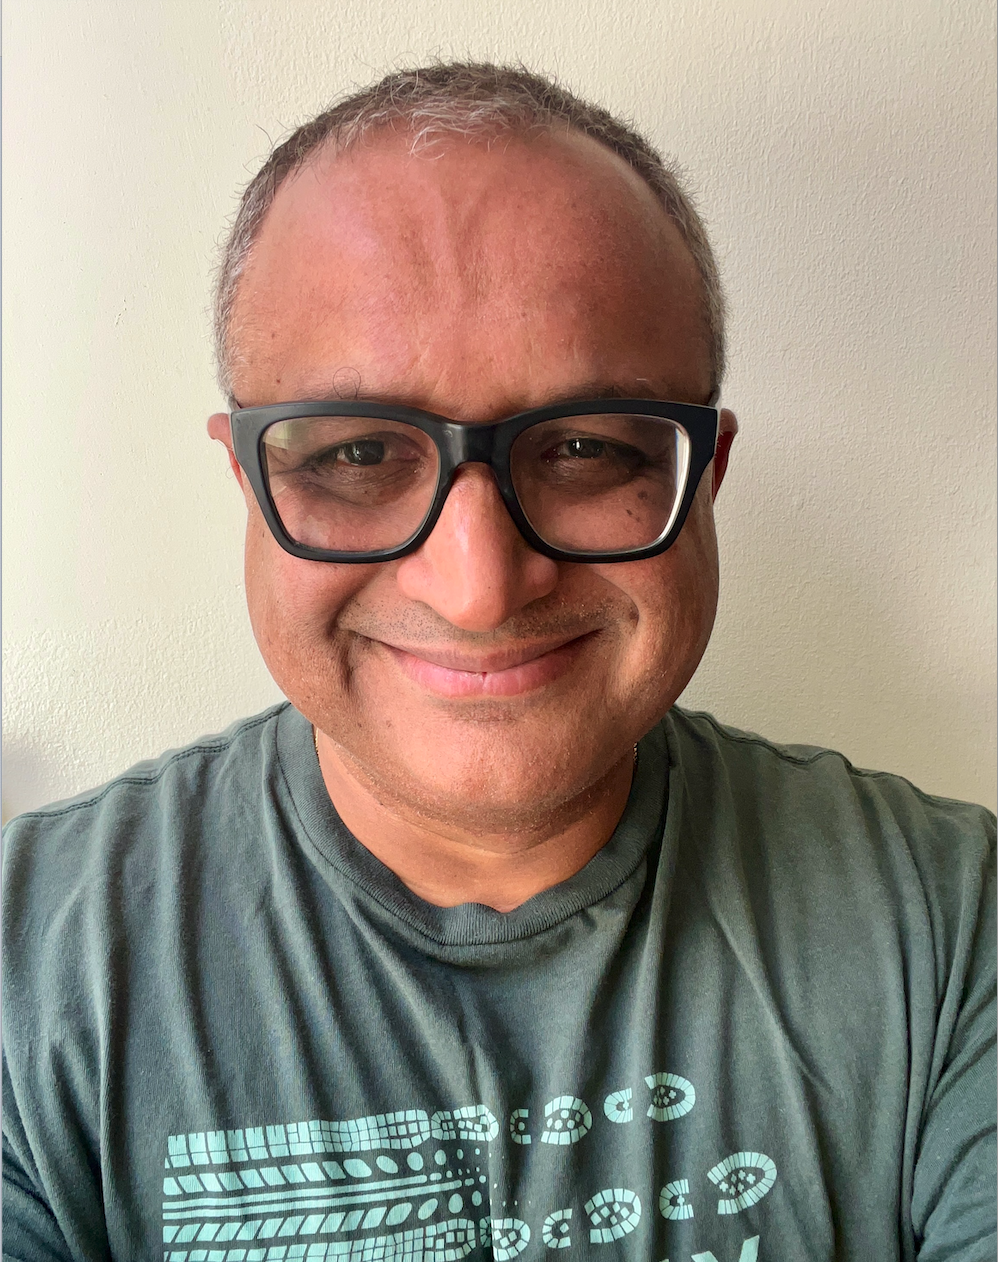
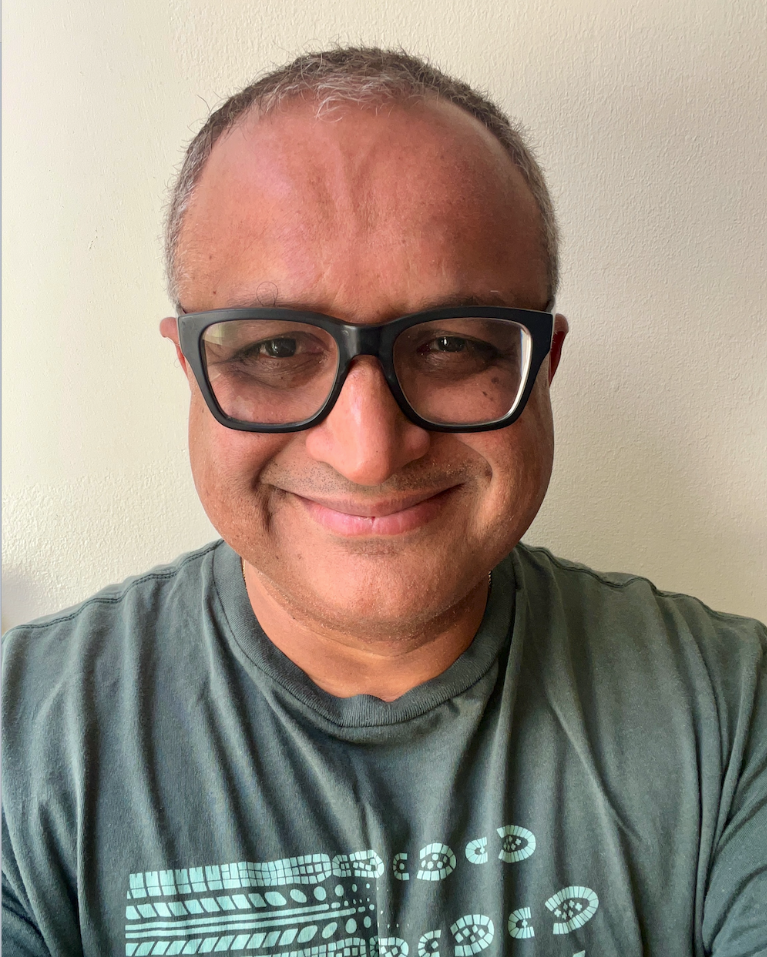
v2 final bug fixes

diff --git a/project/content/about_us_tab.py b/project/content/about_us_tab.py
@@ -60,30 +60,30 @@ My career has centered around leveraging AI and machine learning to drive innova
     
 ############################# REVERT ONCE MARK CONFIRMS #########################
     
-#     with col2:
-#         st.image('/home/ubuntu/efs-w210-capstone-ebs/00.GabbleGrid/project/files/images/10.About_Us/about_us_photo_2.png', use_column_width=True)
-#         st.markdown("""
-#             <div class='section'>
-#                 <h2>Mark Butler</h2>
-#                 <p><strong>Title:</strong> Advisor</p>
-#                 <p>
-#                 Senior leader and seasoned Engineering executive with experience in designing and building language-based computer systems. I have extensive experience with automatic classification, information extraction and retrieval, metadata creation, and language generation. I've had the good fortune to spend the last three decades working with various aspects of getting computers to process language to help humans do their work. In these three decades I've watched the fields of computational linguistics and natural language processing make incredible advances from the rule-based Brill Part of Speech Tagger to CRF based statistical SRL parsers to today's neural net language models like BERT and GPT. Because of the length of my experience, I understand the strengths of each of these technological innovations in NLP -- rule-based, statistical, and deep learning. Human language and the ability of computers to process it continue to fascinate me every day.
-
-# Specialties: text analytics; text mining; machine learning; information extraction; syntactic/semantic modeling; automated taxonomy development; metadata extraction and systems; information retrieval; open source natural language processing software and system architecture.
-#                 </p>
-#             </div>
-#         """, unsafe_allow_html=True)
-
-####################################################################################################
-    
     with col2:
-        st.image('/home/ubuntu/efs-w210-capstone-ebs/00.GabbleGrid/project/files/images/10.About_Us/about_us_photo_blank.png', use_column_width=True)
+        st.image('/home/ubuntu/efs-w210-capstone-ebs/00.GabbleGrid/project/files/images/10.About_Us/about_us_photo_2.png', use_column_width=True)
         st.markdown("""
             <div class='section'>
-                <h2>Will be updated shortly</h2>
-                <p><strong>Will be updated shortly:</strong> Advisor</p>
+                <h2>Mark Butler</h2>
+                <p><strong>Title:</strong> Advisor</p>
                 <p>
-                Will be updated shortly 
+                Senior leader and seasoned Engineering executive with experience in designing and building language-based computer systems. I have extensive experience with automatic classification, information extraction and retrieval, metadata creation, and language generation. I've had the good fortune to spend the last three decades working with various aspects of getting computers to process language to help humans do their work. In these three decades I've watched the fields of computational linguistics and natural language processing make incredible advances from the rule-based Brill Part of Speech Tagger to CRF based statistical SRL parsers to today's neural net language models like BERT and GPT. Because of the length of my experience, I understand the strengths of each of these technological innovations in NLP -- rule-based, statistical, and deep learning. Human language and the ability of computers to process it continue to fascinate me every day.
+
+Specialties: text analytics; text mining; machine learning; information extraction; syntactic/semantic modeling; automated taxonomy development; metadata extraction and systems; information retrieval; open source natural language processing software and system architecture.
                 </p>
             </div>
         """, unsafe_allow_html=True)
+
+########################## Placeholder ##########################################################################
+    
+    # with col2:
+    #     st.image('/home/ubuntu/efs-w210-capstone-ebs/00.GabbleGrid/project/files/images/10.About_Us/about_us_photo_blank.png', use_column_width=True)
+    #     st.markdown("""
+    #         <div class='section'>
+    #             <h2>Will be updated shortly</h2>
+    #             <p><strong>Will be updated shortly:</strong> Advisor</p>
+    #             <p>
+    #             Will be updated shortly 
+    #             </p>
+    #         </div>
+    #     """, unsafe_allow_html=True)
